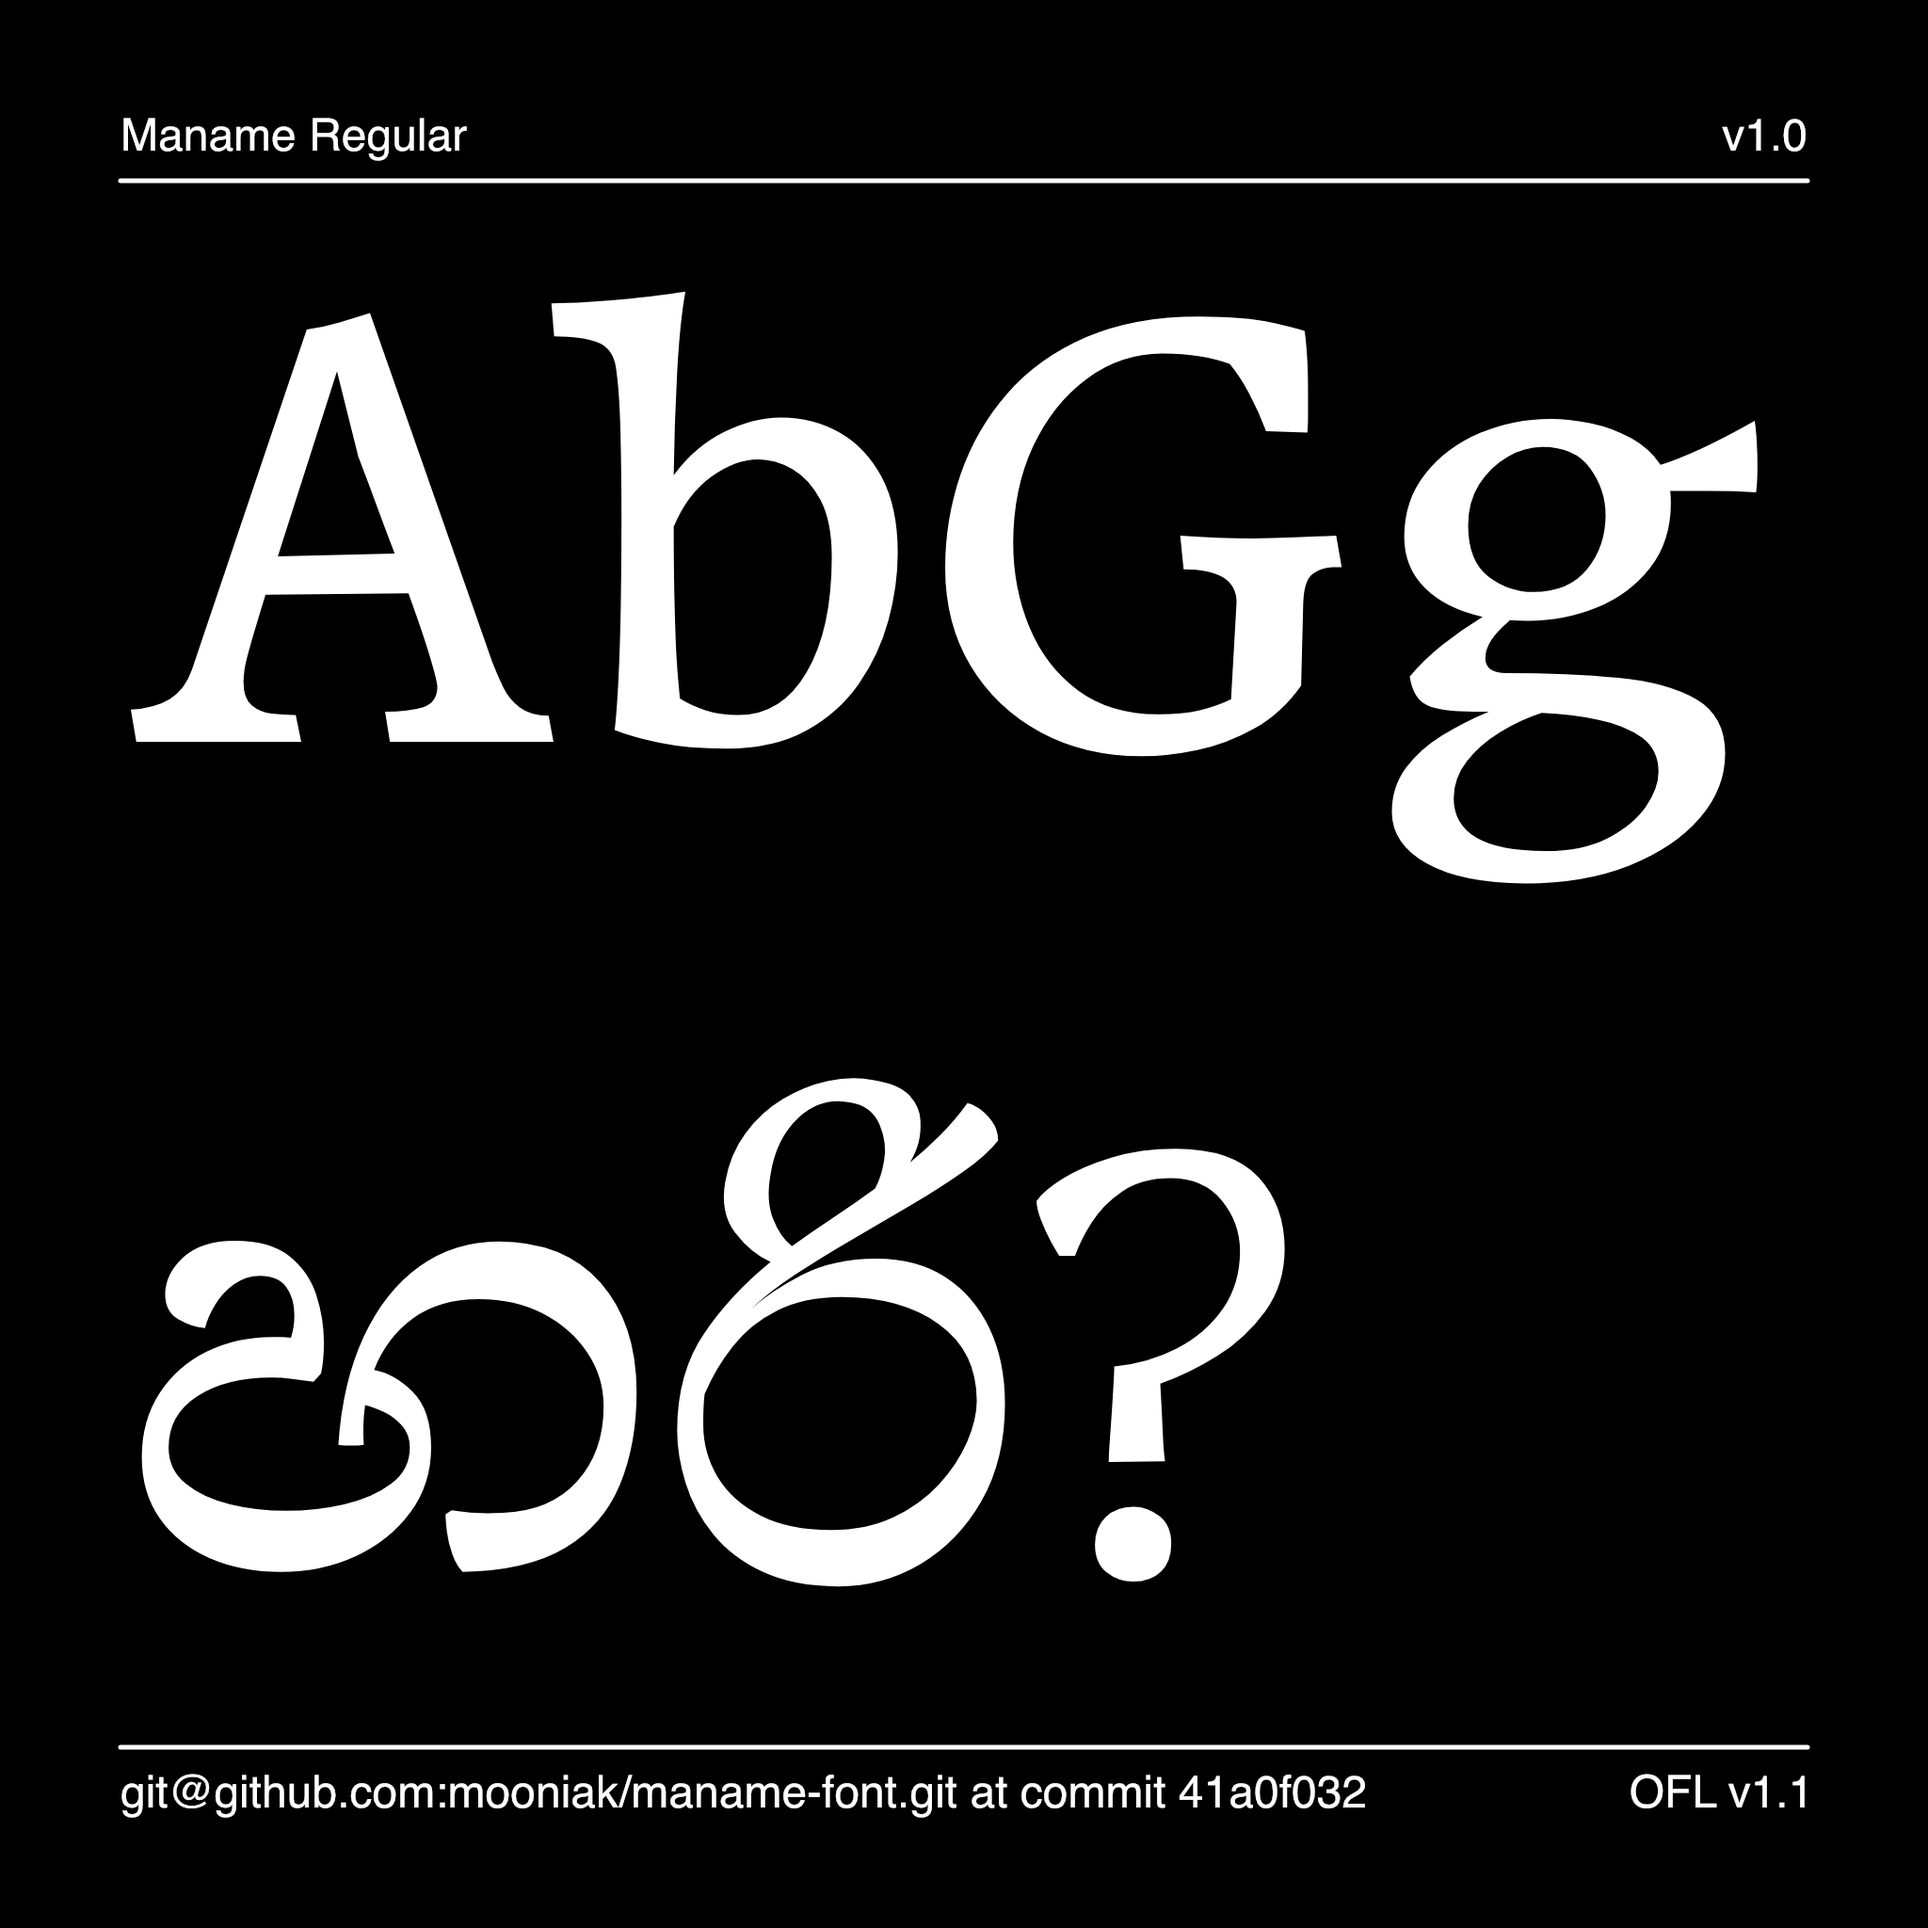
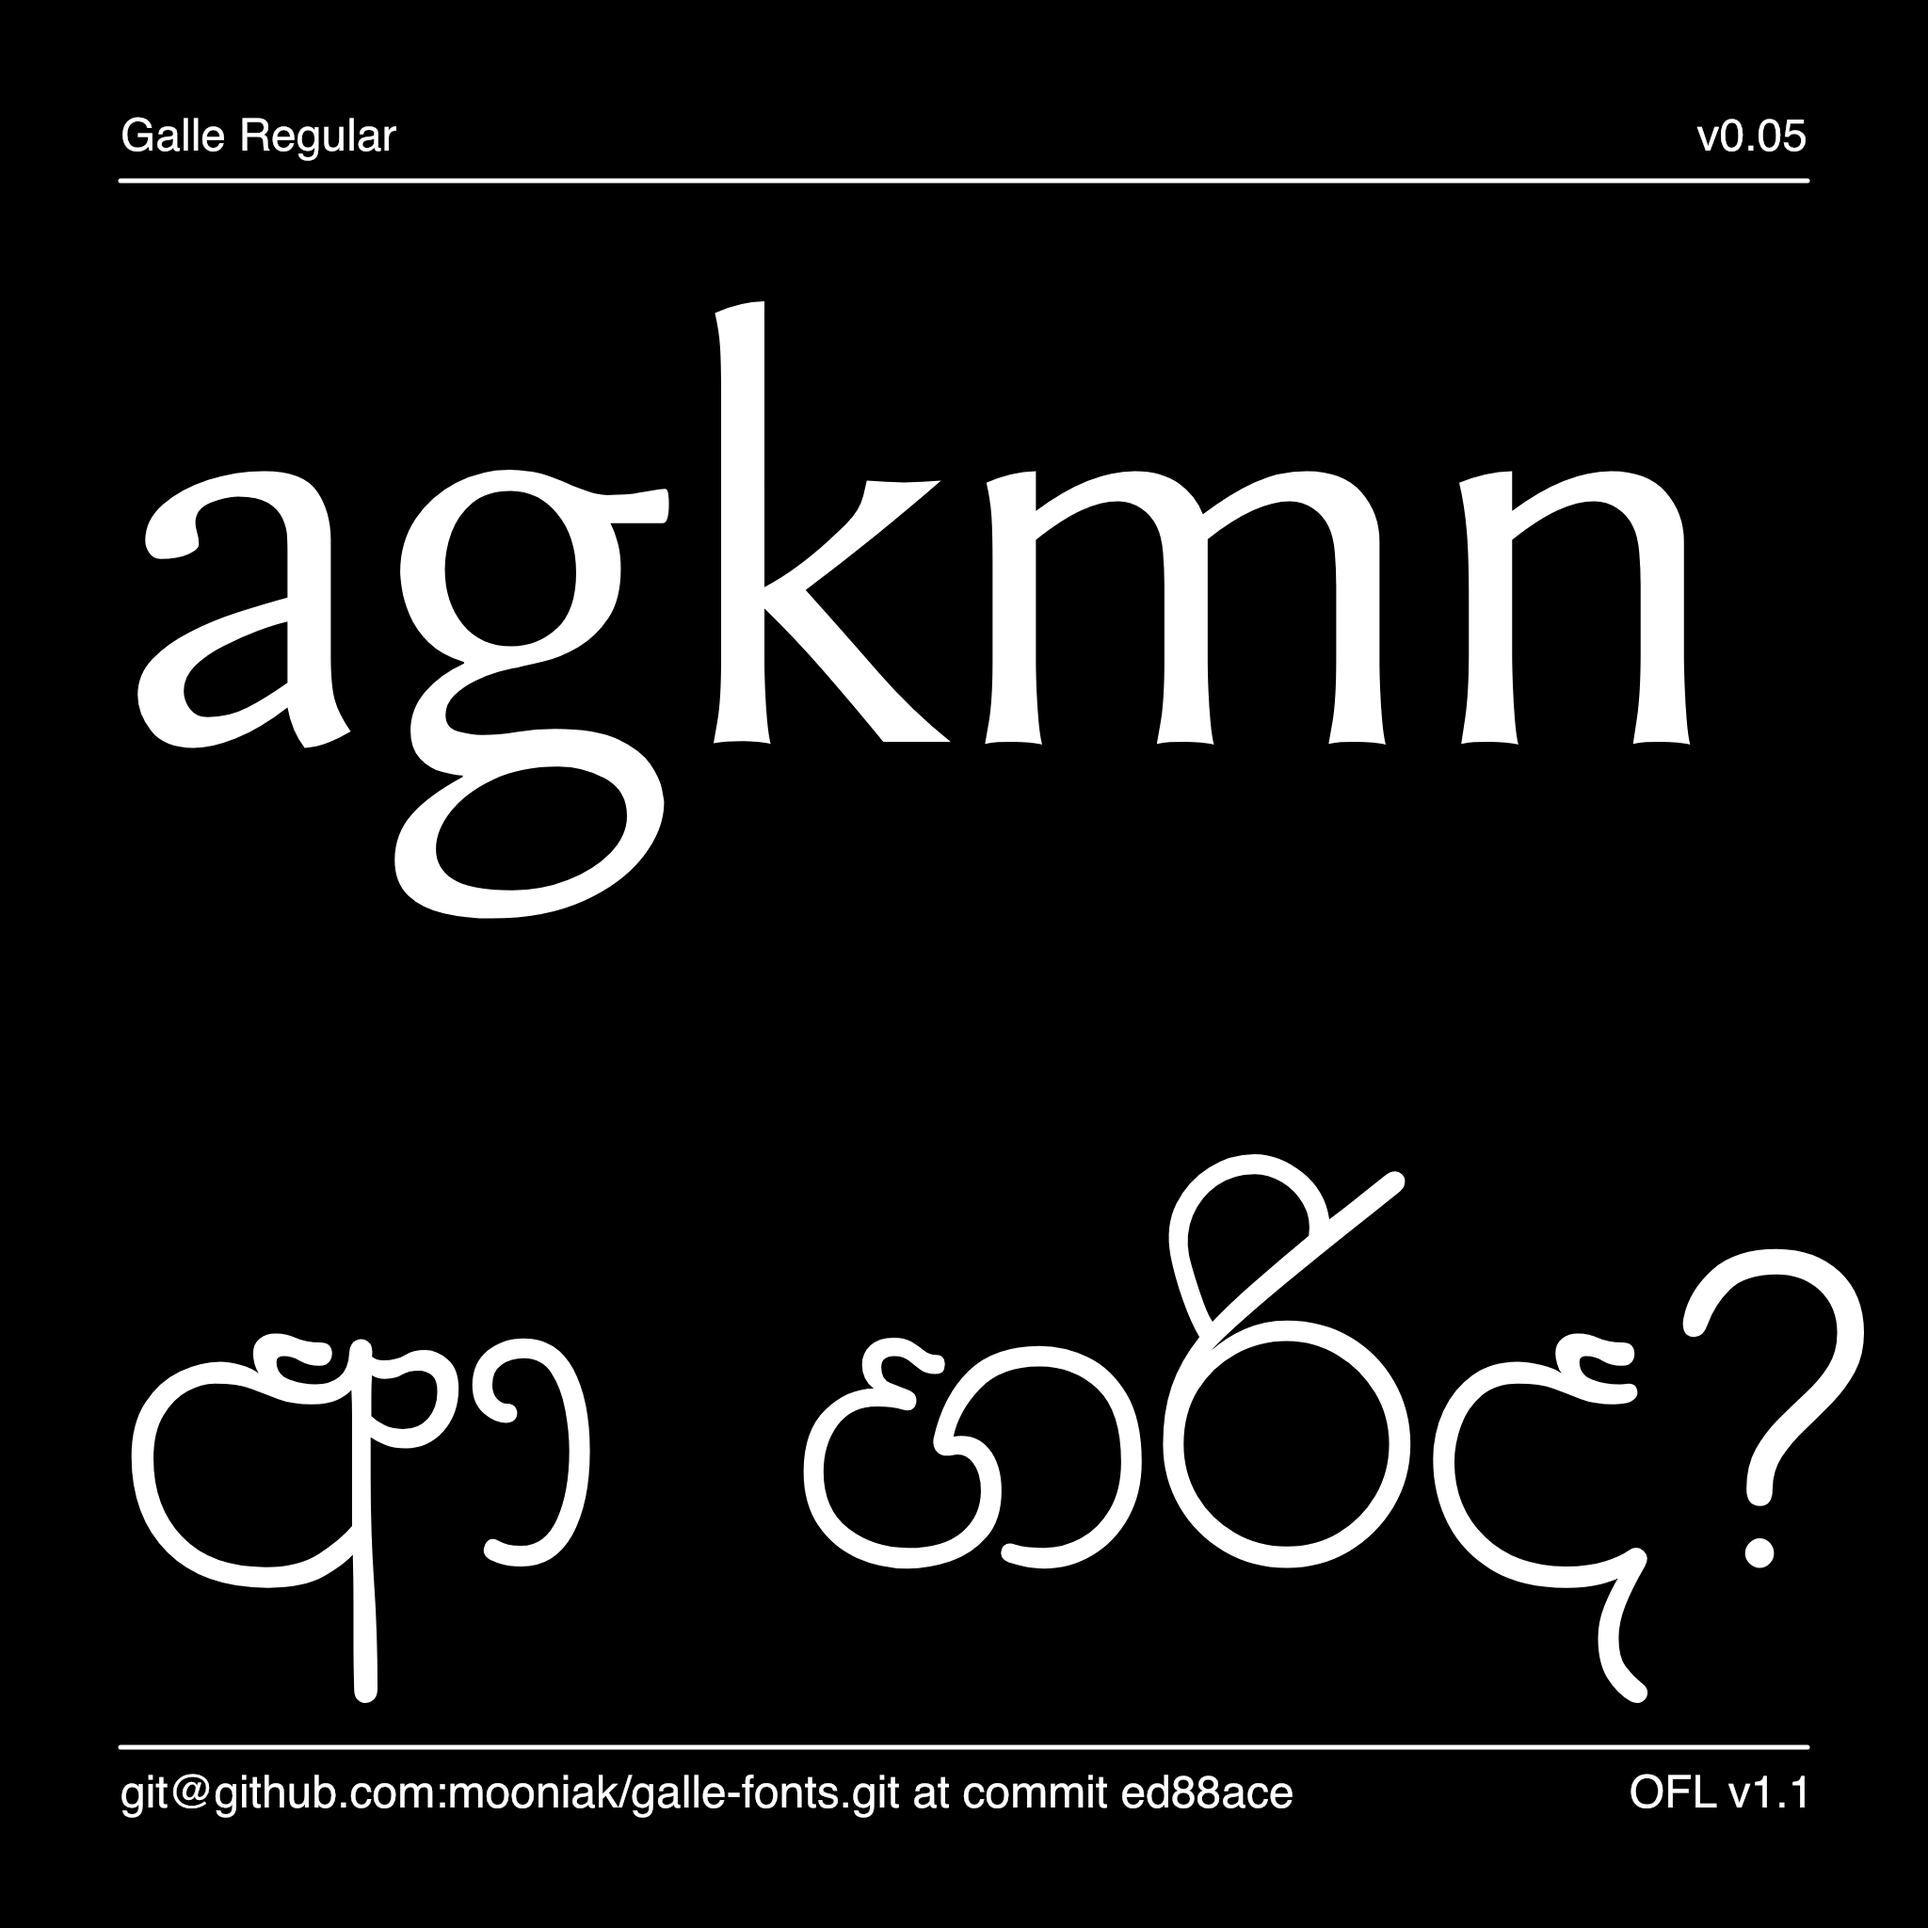
Updates and housekeeping

diff --git a/documentation/image2.py b/documentation/image2.py
@@ -16,23 +16,21 @@ import argparse
 
 # Constants, these are the main "settings" for the image
 WIDTH, HEIGHT, MARGIN, FRAMES = 2048, 2048, 128, 1
-FONT_PATH = "fonts/ttf/Maname-Regular.ttf"
+FONT_PATH = "fonts/ttf/Galle-Regular.ttf"
 FONT_LICENSE = "OFL v1.1"
 AUXILIARY_FONT = "Inconsolata"
 AUXILIARY_FONT_SIZE = 48
 
-LINE_ONE = "ABCDEFGHIJKLMNOPQ"
-LINE_TWO = "RSTUVWXYZ123456789"
-LINE_THREE = "abcdefghijklmnopqrstu"
-LINE_FOUR = "vwxyz,.;:!@#$%^&*(){}[]"
-LINE_FIVE = "අආඇඈඉඊඋඌඍඎඏඐ "
-LINE_SIX = "එඒඓඔඕඖකඛගඝඞඟච"
-LINE_SEVEN = "ඡජඣඤඥඦටඨඩඪණඬත"
-LINE_EIGHT = "ථදධනඳපඵබභමඹයරලවශ"
-LINE_NINE = "ෂසහළෆ෴"
+
+LINE_ONE = "අආඇඈඉඊඋඌඍඎඏඐ "
+LINE_TWO = "එඒඓඔඕඖකඛගඝඞඟච"
+LINE_THREE = "ඡජඣඤඥඦටඨඩඪණඬත"
+LINE_FOUR = "ථදධනඳපඵබභමඹයරලවශ"
+LINE_FIVE = "ෂසහළෆ෴Hagkmnp"
+LINE_SIX = ",.;:!@#$%^&*(){}[]"
 
 
-BIG_TEXT_FONT_SIZE = 155
+BIG_TEXT_FONT_SIZE = 200
 BIG_TEXT_SIDE_MARGIN = MARGIN * 1
 BIG_TEXT_BOTTOM_MARGIN = MARGIN * 13.2
 
@@ -110,10 +108,7 @@ def draw_main_text():
     text(LINE_FOUR, (BIG_TEXT_SIDE_MARGIN, BIG_TEXT_BOTTOM_MARGIN - (MARGIN * (LEADING * 3))))
     text(LINE_FIVE, (BIG_TEXT_SIDE_MARGIN, BIG_TEXT_BOTTOM_MARGIN - (MARGIN * (LEADING * 4))))
     text(LINE_SIX, (BIG_TEXT_SIDE_MARGIN, BIG_TEXT_BOTTOM_MARGIN - (MARGIN * (LEADING * 5))))
-    text(LINE_SEVEN, (BIG_TEXT_SIDE_MARGIN, BIG_TEXT_BOTTOM_MARGIN - (MARGIN * (LEADING * 6))))
-    text(LINE_EIGHT, (BIG_TEXT_SIDE_MARGIN, BIG_TEXT_BOTTOM_MARGIN - (MARGIN * (LEADING * 7))))
-    text(LINE_NINE, (BIG_TEXT_SIDE_MARGIN, BIG_TEXT_BOTTOM_MARGIN - (MARGIN * (LEADING * 8))))
-
+ 
 
 # Divider lines
 def draw_divider_lines():

diff --git a/documentation/image1.py b/documentation/image1.py
@@ -16,14 +16,14 @@ import argparse
 
 # Constants, these are the main "settings" for the image
 WIDTH, HEIGHT, MARGIN, FRAMES = 2048, 2048, 128, 1
-FONT_PATH = "fonts/ttf/Maname-Regular.ttf"
+FONT_PATH = "fonts/ttf/Galle-Regular.ttf"
 FONT_LICENSE = "OFL v1.1"
 AUXILIARY_FONT = "Helvetica"
 AUXILIARY_FONT_SIZE = 48
 
 # Update BIG_TEXT for multiple lines
 
-BIG_TEXT_LINES = ["හරි?", "AbGg"]
+BIG_TEXT_LINES = ["ආ හරිද?", "agkmn"]
 BIG_TEXT_FONT_SIZE = 730
 BIG_TEXT_SIDE_MARGIN = MARGIN * 1
 BIG_TEXT_BOTTOM_MARGIN = MARGIN * 3
